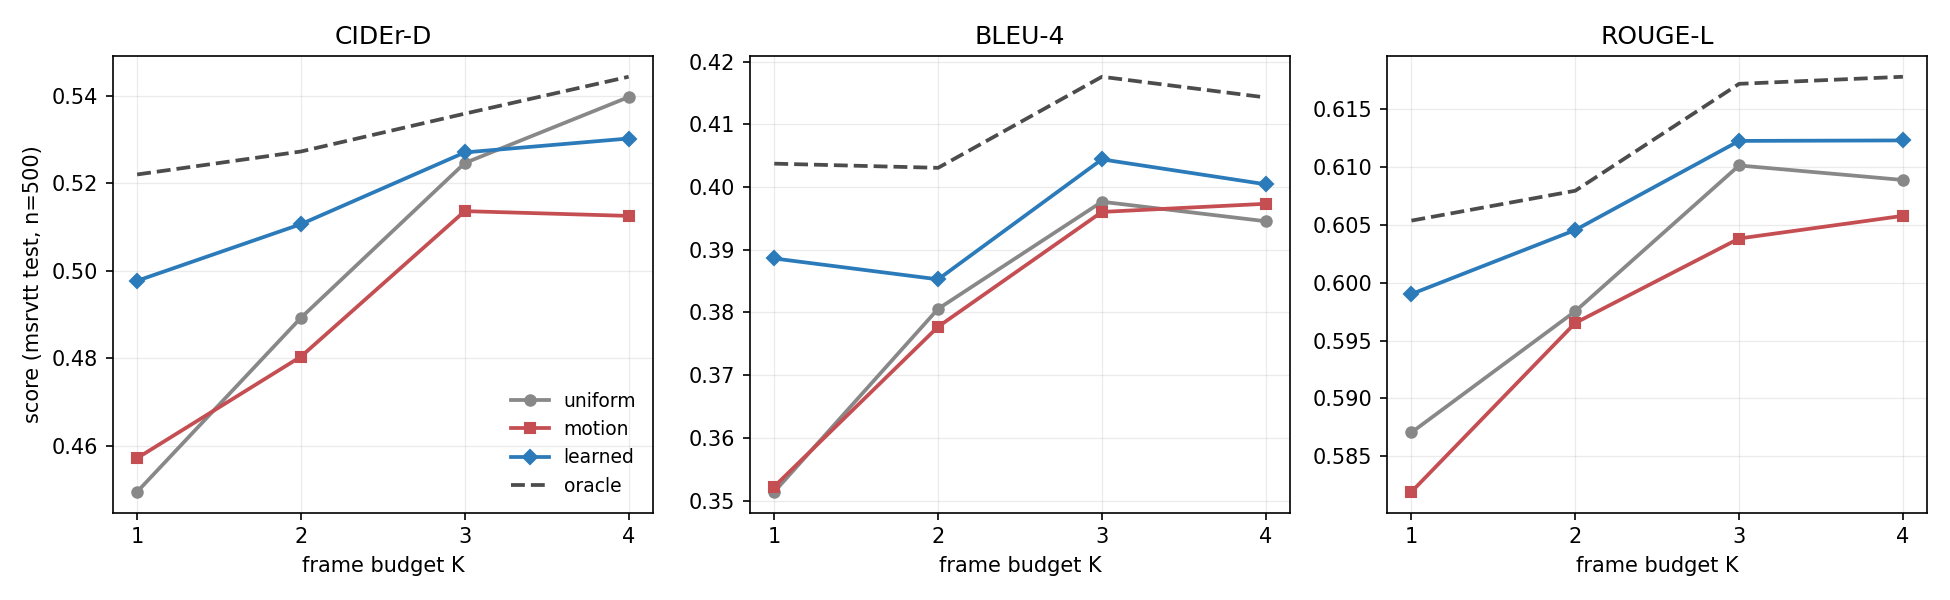
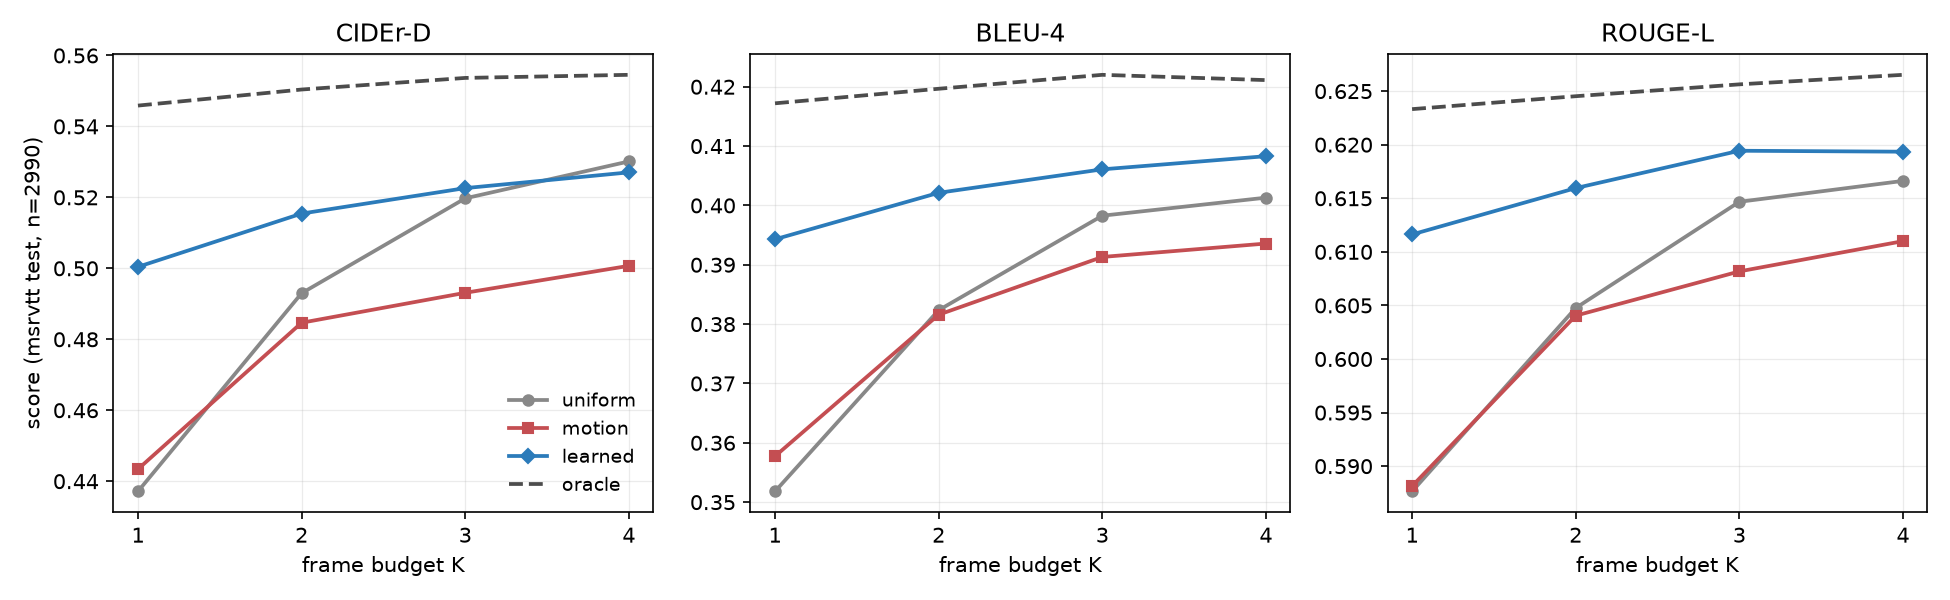
Full 2,990-clip test split: K=1 gain +0.063 CIDEr, 58% of ceiling
The full split strengthens the K=1 result but shows learned K=1 vs uniform K=2
is +0.0074 CIDEr, at the noise floor, so the README now says "worth two" rather
than "beats". Figure regenerated at n=2990. requirements gains protobuf, which
transformers 5 needs for SiglipTokenizer; .venv ignored.

diff --git a/README.md b/README.md
@@ -5,31 +5,41 @@ samples frames uniformly: every Nth frame, regardless of what is in them. This p
 lightweight **frame-relevance scorer** that picks the informative frames instead, and measures
 whether that actually helps.
 
-**It does. One learned frame beats two uniformly-spaced ones.**
+**It does. At a one-frame budget the learned choice lifts CIDEr-D by +0.063 (+14%), and one
+learned frame is worth two uniformly-spaced ones.**
 
 ![quality vs frame budget](figures/budget_curves.png)
 
 ## Headline result
 
-MSR-VTT test, 500 clips, greedy decoding. CIDEr-D:
+MSR-VTT test, **full 2,990-clip split**, greedy decoding. CIDEr-D:
 
 | K | uniform | motion | **learned** | oracle | learned − uniform | % of ceiling |
 |---|---|---|---|---|---|---|
-| 1 | 0.4495 | 0.4572 | **0.4977** | 0.5220 | **+0.0482** | **66%** |
-| 2 | 0.4893 | 0.4804 | **0.5107** | 0.5273 | +0.0214 | 56% |
-| 3 | 0.5246 | 0.5136 | **0.5270** | 0.5359 | +0.0024 | 21% |
-| 4 | 0.5397 | 0.5125 | 0.5302 | 0.5443 | −0.0095 | — |
+| 1 | 0.4371 | 0.4434 | **0.5004** | 0.5459 | **+0.0633** | **58%** |
+| 2 | 0.4930 | 0.4847 | **0.5154** | 0.5504 | +0.0225 | 39% |
+| 3 | 0.5197 | 0.4931 | **0.5226** | 0.5537 | +0.0029 | 8% |
+| 4 | 0.5301 | 0.5007 | 0.5270 | 0.5545 | −0.0031 | — |
 
-**learned K=1 (0.4977) > uniform K=2 (0.4893)** — one well-chosen frame carries more
-caption-relevant information than two evenly-spaced ones, recovering 66% of the oracle ceiling
-without ever seeing a caption at inference.
+The gain at K=1 is **+0.063 CIDEr-D, about 9× the measured noise floor**, recovering 58% of the
+oracle ceiling without ever seeing a caption at inference.
+
+**learned K=1 ≥ uniform K=2** on every metric: CIDEr-D 0.5004 vs 0.4930, BLEU-4 0.3943 vs 0.3823,
+ROUGE-L 0.6116 vs 0.6048. On CIDEr that margin (+0.007) sits at the noise floor, so the defensible
+reading is *one learned frame is worth two uniform ones*, not *clearly beats* them. On BLEU-4 the
+margin is larger (+0.012).
+
+An earlier 500-clip run gave the same shape (K=1: +0.048, 66% of ceiling; raw numbers in
+[results/eval_msrvtt_test.json](results/eval_msrvtt_test.json)). The full split is the number to
+cite: [results/eval_full_test.json](results/eval_full_test.json).
 
 This is a claim about *information per frame*, not about wall-clock cost — see
 [What this does NOT buy you](#what-this-does-not-buy-you-yet) before reading it as a speedup.
 
 On **BLEU-4 and ROUGE-L the learned selector wins at every budget**. Only 1 of 12 metric-budget
-cells is a loss (CIDEr at K=4, −0.0095) — and measured run-to-run noise between two independent
-scorer trainings is ~0.007, so that loss is marginal, not decisive.
+cells is a loss (CIDEr at K=4, −0.0031) — and measured run-to-run noise between two independent
+scorer trainings is ~0.007, so that loss is inside the noise: at K≥3 learned and uniform are tied
+on CIDEr.
 
 The four arms:
 - **uniform** — evenly spaced frames. The industry default, and the thing to beat.
@@ -191,7 +201,7 @@ python3 -m scripts.build_cache --dataset msrvtt        # Stage 0, ~8.5 GPU-h
 python3 -m scripts.train --stage B                     # connector + projector
 python3 -m scripts.train_scorer --epochs 3             # Stage A, ~12 min
 python3 -m scripts.evaluate --ckpt stageB --scorer scorer --oracle --budgets 1,2,3,4
-python3 -m scripts.plot_curves out/eval_msrvtt_test.json figures/budget_curves.png
+python3 -m scripts.plot_curves out/eval_msrvtt_test.json figures/budget_curves.png   # no --limit: full split
 ```
 
 `./run_tests.sh` runs every gate, including the metric-equivalence check against `pycocoevalcap`.
@@ -206,13 +216,15 @@ python3 -m scripts.plot_curves out/eval_msrvtt_test.json figures/budget_curves.p
    human labels. The captioning result stands on its own evidence, but "the scorer finds the
    frames humans consider important" is **not** a claim this project supports.
 3. **Noise floor ~0.007 CIDEr**, measured across two independent scorer trainings. Any claim
-   resting on a gap under ~0.01 needs more seeds. The K=4 loss is inside that zone.
+   resting on a gap under ~0.01 needs more seeds. The K=4 loss and the CIDEr margin of learned
+   K=1 over uniform K=2 are both inside that zone.
 4. **MSR-VTT saturates at K=4.** 15-second single-shot clips are frame-redundant; four evenly
    spaced frames already give the model everything it can use. The result lives at K=1–2, and the
    originally-planned 2/4/8/16 sweep would have measured nothing at all.
 5. **The shipped scorer is the last epoch, not the best.** Checkpointing overwrites each epoch, so
    the headline was produced by a slightly worse-than-best scorer — the result is *understated*.
-6. **500 test clips, greedy decode.** Not the full 2,990-clip test split.
+6. **Greedy decode, one scorer seed.** The headline uses the full 2,990-clip test split, but
+   published MSR-VTT numbers usually use beam search, and this is not a comparison against them.
 
 ## Status
 
